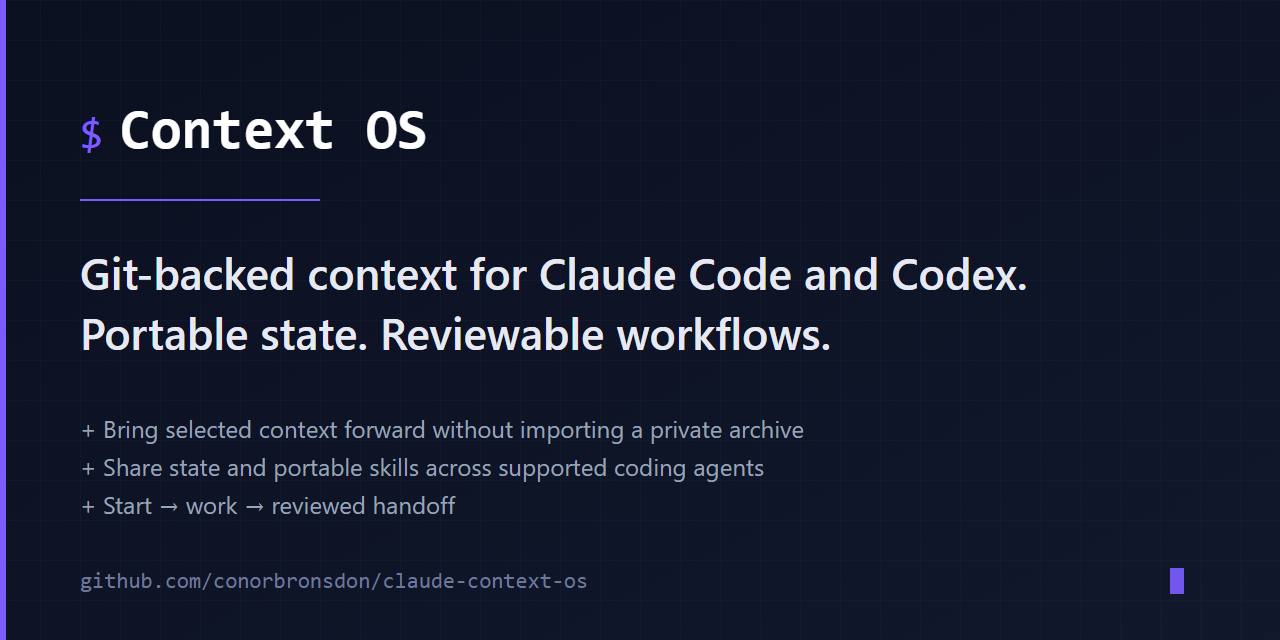
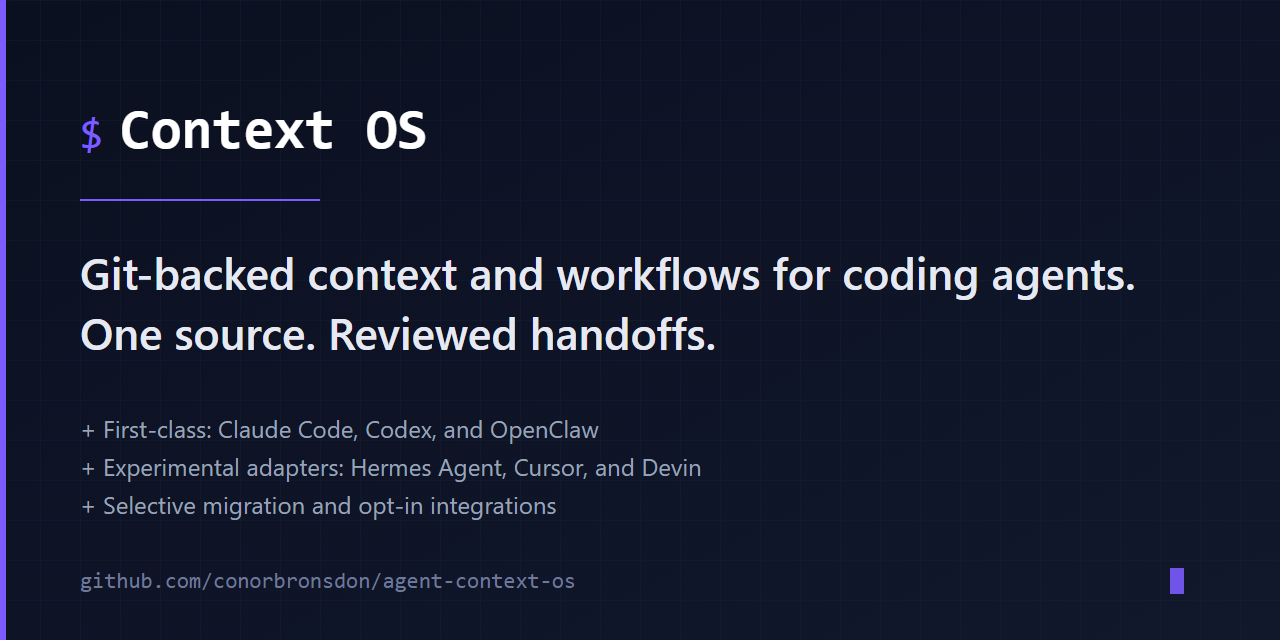
chore: prepare v0.13.0 release

diff --git a/tests/test_publish_release.py b/tests/test_publish_release.py
@@ -21,8 +21,8 @@ SPEC.loader.exec_module(publish_release)
 
 
 REPOSITORY = "conorbronsdon/agent-context-os"
-VERSION = "0.12.0"
-TAG = "v0.12.0"
+VERSION = "0.13.0"
+TAG = "v0.13.0"
 COMMIT = "a" * 40
 RUN_ID = 12345
 ATTEMPT = 3
@@ -32,10 +32,10 @@ RELEASE_ID = 24680
 
 class FakeArtifacts:
     names = {
-        "archive": "agent-context-os-template-v0.12.0.tar",
-        "lock": "agent-context-os-template-v0.12.0.bundle.lock.json",
-        "provenance": "agent-context-os-template-v0.12.0.provenance.json",
-        "instructions": "agent-context-os-template-v0.12.0.OFFLINE-VERIFY.md",
+        "archive": "agent-context-os-template-v0.13.0.tar",
+        "lock": "agent-context-os-template-v0.13.0.bundle.lock.json",
+        "provenance": "agent-context-os-template-v0.13.0.provenance.json",
+        "instructions": "agent-context-os-template-v0.13.0.OFFLINE-VERIFY.md",
         "checksums": "SHA256SUMS",
     }
 
@@ -67,7 +67,7 @@ class FakeGitHubRunner:
         self.payloads = {
             name: (name + "\n").encode("utf-8") for name in FakeArtifacts.names.values()
         }
-        self.body = (root / "docs/releases/v0.12.0.md").read_text(encoding="utf-8")
+        self.body = (root / "docs/releases/v0.13.0.md").read_text(encoding="utf-8")
 
     def _completed(self, arguments: tuple[str, ...], stdout: str = "", returncode: int = 0):
         self.calls.append(arguments)
@@ -378,8 +378,8 @@ class PublishReleaseTest(unittest.TestCase):
                     "digest": "sha256:" + hashlib.sha256(path.read_bytes()).hexdigest(),
                 })
             release = {
-                "tag_name": "v0.12.0",
-                "name": "Context OS v0.12.0",
+                "tag_name": "v0.13.0",
+                "name": "Context OS v0.13.0",
                 "body": "notes\r\n",
                 "draft": True,
                 "prerelease": False,
@@ -388,8 +388,8 @@ class PublishReleaseTest(unittest.TestCase):
             snapshot = publish_release._asset_snapshot(
                 release,
                 expected_names=expected_names,
-                expected_tag="v0.12.0",
-                expected_title="Context OS v0.12.0",
+                expected_tag="v0.13.0",
+                expected_title="Context OS v0.13.0",
                 expected_body="notes\n",
                 draft=True,
             )
@@ -427,7 +427,7 @@ class PublishReleaseTest(unittest.TestCase):
     def test_workflow_artifact_name_binds_run_and_attempt_without_overwrite(self) -> None:
         source = (ROOT / ".github/workflows/release.yml").read_text(encoding="utf-8")
         qualified = (
-            "v0.12.0-candidate-${{ inputs.commit }}-"
+            "v0.13.0-candidate-${{ inputs.commit }}-"
             "${{ github.run_id }}-${{ github.run_attempt }}"
         )
         self.assertGreaterEqual(source.count(qualified), 5)

diff --git a/contextos/workspace_schema.py b/contextos/workspace_schema.py
@@ -15,7 +15,7 @@ LEGACY_WORKSPACE_SCHEMA_VERSION = 1
 WORKSPACE_SCHEMA_VERSION = 2
 WORKSPACE_MODE = "full-template"
 WORKSPACE_PROFILES = {"full-template", "selected"}
-DEFAULT_TEMPLATE_VERSION = "0.12.0"
+DEFAULT_TEMPLATE_VERSION = "0.13.0"
 DEFAULT_TEMPLATE_SOURCE = "agent-context-os-template"
 DEFAULT_PATHS = {
     "state_dir": "state",

diff --git a/contextos/__init__.py b/contextos/__init__.py
@@ -1,3 +1,3 @@
 """Deterministic lifecycle kernel for Context OS."""
 
-__version__ = "0.12.0"
+__version__ = "0.13.0"

diff --git a/docs/launch-copy.md b/docs/launch-copy.md
@@ -6,7 +6,9 @@ Drafts only. Review links, release status, and platform length before publishing
 
 I built `agent-context-os` because I was tired of rebuilding the same context across chats, projects, and coding agents.
 
-The project now has a clearer public name: Context OS.
+Context OS is a Git-backed context and workflow layer shared across Claude Code,
+Codex, and OpenClaw. Hermes Agent, Cursor, and Devin have experimental adapters
+with explicit evidence limits.
 
 It keeps the durable parts of working with an agent in plain Markdown:
 
@@ -15,9 +17,15 @@ It keeps the durable parts of working with an agent in plain Markdown:
 - reusable workflows
 - reviewed session handoffs
 
-Claude Code and Codex can now use the same repository state and the same setup, start, checkpoint, and end workflow. There is also a selective migration guide for bringing useful context forward from ChatGPT, Claude, Gemini, or another assistant without dumping your full private history into Git.
+v0.13 adds a clean boundary for ongoing application work: Context OS can stay
+in its own repository while an attached application contributes read-only Git
+evidence. The new workspace reconciliation flow also makes component and bundle
+changes reviewable before they touch a workspace.
 
-The new integration catalog is opt-in and explicit about what each add-on can read, write, publish, overwrite, or delete. Setup enables nothing automatically.
+Concurrent runs can use the new file-backed coordination board for bounded
+claims and handoffs. The integration catalog remains opt-in and explicit about
+what each add-on can read, write, publish, overwrite, or delete. Setup enables
+nothing automatically.
 
 If your AI context is scattered across five places and slowly going stale, this is the problem I want Context OS to solve.
 
@@ -25,14 +33,15 @@ https://github.com/conorbronsdon/agent-context-os
 
 ## Short announcement
 
-`agent-context-os` is now Context OS: a Git-backed context and workflow layer for Claude Code and Codex.
+Context OS is a Git-backed context and workflow layer for Claude Code, Codex,
+and OpenClaw, with experimental Hermes Agent, Cursor, and Devin adapters.
 
 New in this release:
 
-- one shared lifecycle across both coding agents
-- a selective migration guide for ChatGPT, Claude, Gemini, and other systems
+- external-project attachment with a read-only application boundary
+- schema v2 workspace reconciliation, composition, rollback, and recovery
+- a file-backed coordination board for concurrent agent runs
 - a safety-gated catalog of optional integrations
-- clearer setup, privacy, and maintenance docs
 
 Your durable context stays in files you can inspect, version, and move.
 
@@ -42,7 +51,14 @@ https://github.com/conorbronsdon/agent-context-os
 
 Context OS update:
 
-Codex is now a first-class path, not a fork. The same repository state powers `$setup`, `$start`, `$update`, and `$end`, while Claude Code keeps its slash-command adapters.
+v0.13 adds external-project attachment: Context OS keeps its own writable
+repository while an application repository contributes read-only Git evidence.
+Workspace schema v2 makes reconciliation, composition, rollback, and recovery
+explicit. The new coordination board lets concurrent runs record bounded claims
+and handoffs without a central service.
+
+Claude Code, Codex, and OpenClaw share the lifecycle core. Hermes Agent, Cursor,
+and Devin are separate experimental adapters with their own documented limits.
 
 The optional integration catalog covers portable skill collections, creator
 tools, CLIs, and MCP servers. The [generated catalog](../references/integrations.md)

diff --git a/CHANGELOG.md b/CHANGELOG.md
@@ -2,6 +2,10 @@
 
 ## [Unreleased]
 
+---
+
+## [0.13.0] — 2026-09-02 — External-project and workspace evolution
+
 ### Added
 - External-project attachment now keeps Context OS in its own ContextRoot while
   binding an ordinary application as a read-only WorkingRoot. `project attach`
@@ -12,6 +16,16 @@
   including bounded application status and history. Claude and Codex lifecycle
   skills use the same provider-neutral kernel contract, while the existing
   colocated v0.12 command form remains compatible.
+- Workspace schema v2 records the selected component profile and detached bundle
+  digest. Guided `workspace reconcile` proposals make compatible migration,
+  composition, rollback, and recovery explicit rather than treating an installed
+  template as an opaque copy.
+- A coordination board gives concurrent agent runs bounded claims, lease expiry,
+  successor handoff, and degraded-reference handling without making a central
+  service the source of truth.
+- The generated integration catalog adds Shortcut, Slack, and GitLab MCP entries
+  with declared OAuth scopes, data access, side effects, and confirmation
+  boundaries.
 
 ### Changed
 - Aligned integration proposal, contributor guidance, and PR templates with catalog schema v2 (documentation and template changes only).
@@ -25,14 +39,6 @@
   hand-maintained prose.
 - The enabled Claude worktree guard now counts exact Claude executable names and identifies linked worktrees from Git's common-directory structure, with must-fire and must-not-fire controls for primary, linked, guarded, unguarded, and single-session paths.
 - Release draft staging now creates only after a classified HTTP 404, recovers duplicate-create races without re-uploading, and binds publication and recovery to an operator-supplied positive numeric release ID.
-
-### Added
-- `shortcut-mcp` integration catalog entry for Shortcut's hosted MCP server with
-  granular OAuth scopes and dedicated read-only mode (#49).
-- `slack-mcp` integration catalog entry for Slack's official first-party MCP server
-  with channel history, canvas, and granular message confirmation boundaries (#52).
-- `gitlab-mcp` integration catalog entry for GitLab's official Beta MCP server
-  with repository, MR, issue, and pipeline capabilities (#50).
 
 ---
 

diff --git a/docs/release-process.md b/docs/release-process.md
@@ -48,7 +48,7 @@ The administration-read policy endpoint is intentionally not called with an
 Actions `GITHUB_TOKEN`: GitHub does not grant that token repository
 administration permission. Do not put a personal admin token in workflow inputs,
 logs, repository secrets, or artifacts. The workflow uses the checked-in
-[v0.12.0 release notes](releases/v0.12.0.md) as the draft description.
+[v0.13.0 release notes](releases/v0.13.0.md) as the draft description.
 
 The workflow then fails closed through these gates:
 
@@ -93,8 +93,8 @@ python scripts/publish-release.py \
   --run-id RUN_ID \
   --release-id RELEASE_ID \
   --commit REVIEWED_40_HEX_COMMIT \
-  --version 0.12.0 \
-  --tag v0.12.0
+  --version 0.13.0 \
+  --tag v0.13.0
 ```
 
 The publisher uses the existing locally authenticated `gh` session. Before the
@@ -107,7 +107,7 @@ irreversible numeric-release-ID PATCH, it requires all of the following:
   numeric artifact ID, checked against its server-reported ZIP size and digest,
   and re-read by ID before publication;
 - local `HEAD` and the target repository's GitHub API `main` and
-  `refs/tags/v0.12.0` equal the reviewed commit (the local `origin` is not an
+  `refs/tags/v0.13.0` equal the reviewed commit (the local `origin` is not an
   independent authority);
 - the operator-selected numeric release is still a draft, is not a prerelease,
   and has the exact
@@ -153,8 +153,8 @@ python scripts/publish-release.py \
   --run-id RUN_ID \
   --release-id RELEASE_ID \
   --commit REVIEWED_40_HEX_COMMIT \
-  --version 0.12.0 \
-  --tag v0.12.0 \
+  --version 0.13.0 \
+  --tag v0.13.0 \
   --verify-published
 ```
 
@@ -163,7 +163,7 @@ identity and attestation cross-check and never selects the PATCH target. This
 mode requires the numeric release to be published and immutable, repeats
 the run, attempt, artifact, repository-ref, metadata, byte, and attestation
 checks, and never issues a publication PATCH. Any post-publication integrity
-mismatch retires v0.12.0 rather than authorizing mutation.
+mismatch retires v0.13.0 rather than authorizing mutation.
 
 Consumers should follow the version-specific offline instructions and obtain
 the expected digest through a channel they trust. Co-located checksums prove

diff --git a/docs/releases/v0.13.0.md b/docs/releases/v0.13.0.md
@@ -1,0 +1,31 @@
+# Context OS v0.13.0
+
+Context OS can now live in its own repository while attaching an ordinary
+application repository as read-only working evidence. The release also adds a
+versioned workspace composition contract and a file-backed coordination board
+for concurrent agent runs.
+
+## What changed
+
+- **Attach an external project safely.** `project attach` and `project rebind`
+  create digest-bound proposals that keep ContextRoot writable and WorkingRoot
+  read-only. Session workflows report the two Git evidence scopes separately.
+- **Reconcile a workspace deliberately.** Workspace schema v2 records the
+  selected component profile and detached bundle digest. `workspace reconcile`
+  plans compatible migration, composition, rollback, and recovery before files
+  change.
+- **Coordinate concurrent work.** The new board records bounded claims, lease
+  expiry, successor handoff, and degraded references in repository state rather
+  than a central service.
+- **Expand the optional catalog.** Shortcut, Slack, and GitLab MCP entries now
+  disclose their OAuth scopes, data access, side effects, and confirmation
+  boundaries. Nothing is installed or enabled by Context OS.
+
+Claude Code, Codex, and OpenClaw remain first-class hosts. Hermes Agent,
+Cursor, and Devin remain experimental adapters; this release does not claim
+installed-client conformance beyond their documented evidence.
+
+From the published immutable release, download all five attached assets. Start
+with `agent-context-os-template-v0.13.0.OFFLINE-VERIFY.md`; the canonical
+artifact is `agent-context-os-template-v0.13.0.tar`, not GitHub's automatically
+generated source archives.

diff --git a/README.md b/README.md
@@ -2,7 +2,7 @@
 
 # Context OS
 
-A portable Git-backed context and workflow layer for agents like Claude Code, Codex, Hermes, OpenClaw, Cursor, and Devin. Evolves alongside you and your agents.
+A Git-backed context and workflow layer shared across Claude Code, Codex, and OpenClaw, with experimental Hermes Agent, Cursor, and Devin adapters.
 
 [![GitHub stars](https://img.shields.io/github/stars/conorbronsdon/agent-context-os?style=social)](https://github.com/conorbronsdon/agent-context-os/stargazers)
 [![License: MIT](https://img.shields.io/badge/License-MIT-blue.svg?style=flat-square)](LICENSE)
@@ -285,7 +285,7 @@ behavior of an installed agent version or an external service.
 | See every command and portable skill | [Commands and skills](docs/commands-and-skills.md) |
 | Understand component ownership and the composition/materialization substrate | [Component model](docs/component-model.md) |
 | Verify an offline bundle or inspect a structural plan | [Bundle locks and plans](docs/bundle-locks.md) |
-| Read the v0.12 release scope and evidence limits | [v0.12.0 release notes](docs/releases/v0.12.0.md) |
+| Read release scope and evidence limits | [v0.13.0 release notes](docs/releases/v0.13.0.md); [v0.12.0 archive](docs/releases/v0.12.0.md) |
 | Understand KernelRoot, ContextRoot, WorkingRoot, and the v0.12 compatibility boundary | [Root contract](docs/root-contract.md) |
 | Choose an optional add-on | [Integration chooser](docs/integrations-guide.md) and [catalog](references/integrations.md) |
 | Understand product language and boundaries | [Positioning](docs/positioning.md) |

diff --git a/docs/bundle-locks.md b/docs/bundle-locks.md
@@ -29,7 +29,7 @@ Generation refuses staged differences from `HEAD`:
 bash scripts/contextos.sh bundle generate \
   --source . \
   --name agent-context-os-template \
-  --bundle-version 0.12.0
+  --bundle-version 0.13.0
 ```
 
 Generation prints JSON and does not write a lock. It rejects unclassified or

diff --git a/docs/workspace-configuration.md b/docs/workspace-configuration.md
@@ -35,7 +35,7 @@ Schema v2 has exact keys:
     "task_file": "TODO.md"
   },
   "template": {
-    "version": "0.12.0",
+    "version": "0.13.0",
     "source": "agent-context-os-template",
     "bundle_sha256": "<exact-64-character-lowercase-digest>"
   }
